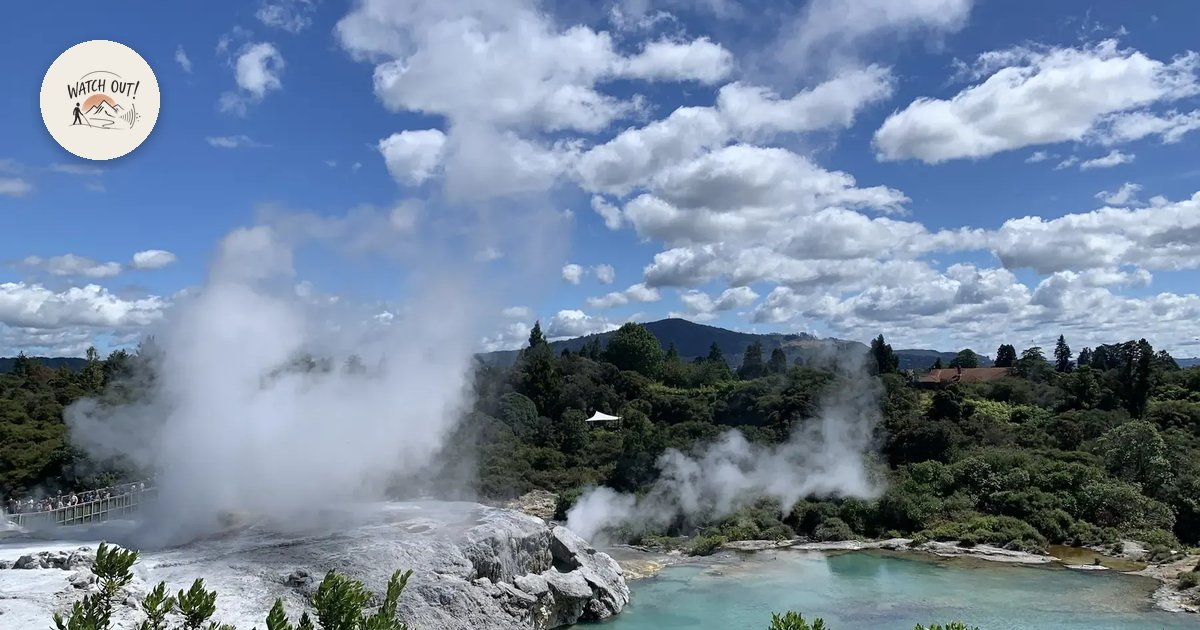
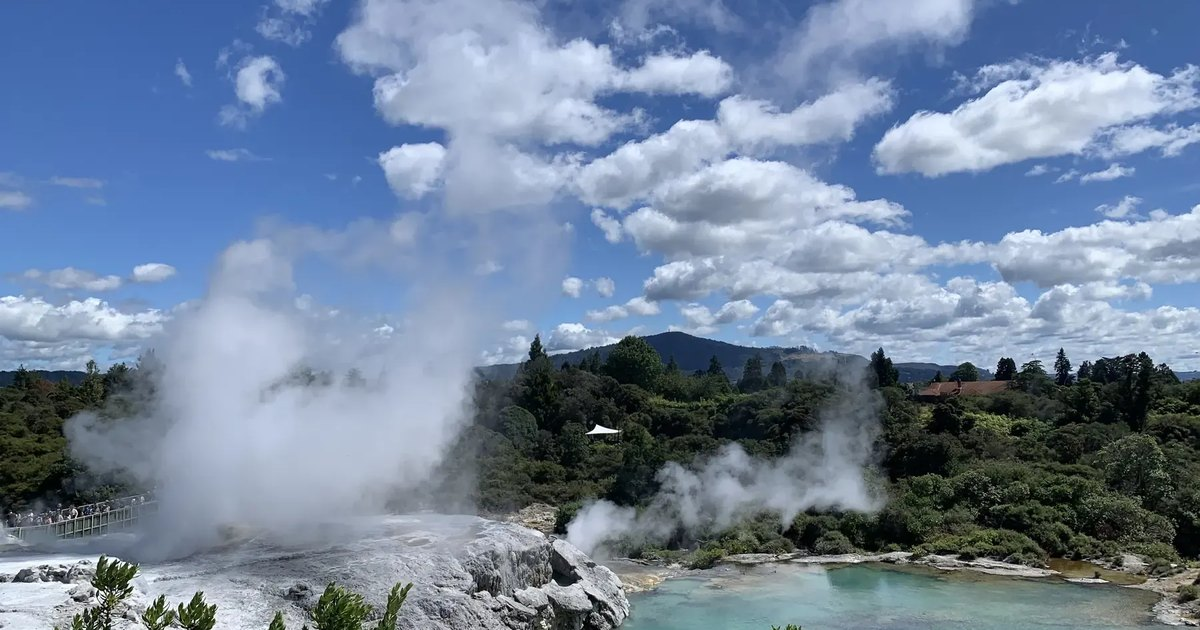
El Gran Viaje como próxima salida, SEO de las páginas e imagen social
- La salida del 1 al 15 de marzo de 2027 es El Gran Viaje, sin
  asociarla a +60: la etiqueta de la home pasa a "Próxima salida" y el
  formulario tiene la opción "El Gran Viaje · 1 – 15 de marzo de 2027",
  que se preselecciona desde esa sección (antes, "Viajes +60").
- Más allá de la vista y Viajes +60: fuera las fechas, duraciones y
  número de viajeros que presentaban esa salida como propia; en su lugar,
  un aviso que enlaza a /#proxima-salida (nuevo id de la sección).
- Título y descripción nuevos (ES/EN) de la home, Viajes privados,
  Viajes +60, Más allá de la vista, Las fundadoras y el Diario; og:title
  y og:description los heredan. index.html con los de la home.
- Datos estructurados: descripción nueva de la empresa; knowsAbout sin
  "Sensory travel experiences" y con "Bespoke travel in New Zealand" y
  "Responsible tourism (Tiaki Promise)".
- og-image.jpg: la misma foto propia del géiser, sin el logo antiguo.

Claude-Session: https://claude.ai/code/session_01JE6YKZzThTd12h43q7Mnka

diff --git a/WATCHOUT TOURS/index.html b/WATCHOUT TOURS/index.html
@@ -7,8 +7,8 @@
          por página (componente Seo, editable desde /admin/seo). Los de aquí
          son solo el valor por defecto antes de que cargue JavaScript o para
          rutas que no se prerenderizan (p. ej. /admin). -->
-    <title>Watchout Tours · Viajes sensoriales por Nueva Zelanda</title>
-    <meta name="description" content="Viajes guiados y accesibles por Nueva Zelanda para personas ciegas y con baja visión. Experiencias sensoriales, autonomía y aventura." />
+    <title>WatchOut Tours · Viajes de autor por Nueva Zelanda</title>
+    <meta name="description" content="Viajes privados y salidas en grupo reducido por Nueva Zelanda, diseñados y acompañados por sus fundadoras, dos barcelonesas que viven en el país. Hoteles de 4 y 5 estrellas y experiencias privadas." />
     <link rel="icon" type="image/svg+xml" href="/favicon.svg" />
     <link rel="icon" type="image/png" sizes="32x32" href="/favicon-32.png" />
     <link rel="apple-touch-icon" sizes="180x180" href="/favicon-180.png" />
@@ -25,7 +25,7 @@
         "url": "https://watchouttours.nz",
         "logo": "https://watchouttours.nz/favicon-512.png",
         "image": "https://watchouttours.nz/og-image.jpg",
-        "description": "Watchout Tours diseña y guía viajes sensoriales en grupos de máximo 6 personas por Nueva Zelanda, en español y en inglés, con dos guías durante todo el viaje. Viajes +60, para quien quiere viajar con calma y comodidad total, y viajes para personas ciegas y con baja visión.",
+        "description": "WatchOut Tours es una agencia de viajes de autor con sede en Nueva Zelanda, fundada por Sylvie y Mónica, dos barcelonesas que viven en el país. Diseña y acompaña viajes privados a medida, salidas en grupo reducido, viajes +60 y viajes para personas ciegas y con baja visión, en español y en inglés.",
         "email": "info@watchouttours.nz",
         "areaServed": "NZ",
         "knowsLanguage": ["es", "en"],
@@ -34,7 +34,8 @@
           "Blind travel",
           "Travel for the visually impaired",
           "Guided tours in New Zealand",
-          "Sensory travel experiences"
+          "Bespoke travel in New Zealand",
+          "Responsible tourism (Tiaki Promise)"
         ],
         "sameAs": ["https://www.instagram.com/watchouttours/"]
       }

diff --git a/WATCHOUT TOURS/src/pages/MasAllaDeLaVista.jsx b/WATCHOUT TOURS/src/pages/MasAllaDeLaVista.jsx
@@ -9,7 +9,7 @@ import { useSiteImage } from '../lib/siteImages'
 import { Seo } from '../components/Seo'
 import { Icono } from '../components/Icono'
 import { L } from '../i18n/routing'
-import { HeroFoto, SeparadorBaston, ResenasDestacadas, CtaFinal, AudioClips } from '../components/home/BloquesHome'
+import { HeroFoto, SeparadorBaston, ResenasDestacadas, CtaFinal, AudioClips, AvisoProximaSalida } from '../components/home/BloquesHome'
 import { SolicitudRuta } from '../components/SolicitudRuta'
 
 /* Iconos de "Lo que van a vivir": adrenalina, sentidos y cultura. */
@@ -157,17 +157,7 @@ export default function MasAllaDeLaVista() {
             ))}
           </div>
 
-          <div className="anuncio-grupo">
-            <span className="anuncio-grupo__badge">
-              <span className="anuncio-grupo__punto" aria-hidden="true"></span>
-              {t('masAlla.rutas.anuncioBadge')}
-            </span>
-            <p className="anuncio-grupo__fecha">{t('masAlla.rutas.anuncioFecha')}</p>
-            <p className="anuncio-grupo__texto">{t('masAlla.rutas.anuncioTexto')}</p>
-            <div className="cta-row" style={{ justifyContent: 'center' }}>
-              <L to="/contacto" className="btn btn-solid anuncio-grupo__cta">{t('masAlla.rutas.anuncioCta')}<span aria-hidden="true"> →</span></L>
-            </div>
-          </div>
+          <AvisoProximaSalida />
         </div>
       </section>
 

diff --git a/WATCHOUT TOURS/src/pages/Home.jsx b/WATCHOUT TOURS/src/pages/Home.jsx
@@ -78,6 +78,7 @@ const TIAKI = 'https://www.tiakinewzealand.com'
 
 /* Valores que recibe el equipo en el correo (siempre en español). */
 const VIAJES_EQUIPO = {
+  'gran-viaje': 'El Gran Viaje (1 – 15 de marzo de 2027)',
   'viajes-60': 'Viajes +60',
   'personas-ciegas': 'Viajes para personas ciegas y con baja visión',
   'privado': 'Viaje en privado',
@@ -349,13 +350,13 @@ function Colecciones() {
 function ProximaSalida({ setViaje }) {
   const { t } = useTranslation()
   return (
-    <section id="salida" className="hn-sec hn-par hn-blanca" aria-labelledby="hn-salida-titulo">
+    <section id="proxima-salida" className="hn-sec hn-par hn-blanca" aria-labelledby="hn-salida-titulo">
       <div className="hn-par__texto">
         <Etiqueta>{t('home.salida.etiqueta')}</Etiqueta>
         <h2 id="hn-salida-titulo" className="hn-h2"><Texto k="home.salida.titulo" /></h2>
         <p className="hn-body hn-body--primero">{t('home.salida.texto')}</p>
         <div className="hn-botones">
-          <a href="#itinerario" className="hn-btn" onClick={() => setViaje('viajes-60')}>{t('home.salida.itinerario')}</a>
+          <a href="#itinerario" className="hn-btn" onClick={() => setViaje('gran-viaje')}>{t('home.salida.itinerario')}</a>
           <BotonVideollamada className="hn-btn hn-btn--tinta">{t('home.salida.hablar')}</BotonVideollamada>
         </div>
       </div>

diff --git a/WATCHOUT TOURS/src/components/home/BloquesHome.jsx b/WATCHOUT TOURS/src/components/home/BloquesHome.jsx
@@ -156,6 +156,22 @@ export function ResenasDestacadas({ tono = 'night', modo = 'destacadas', variant
 }
 
 
+/* ── Aviso de la próxima salida en grupo ───────────────
+   Lo usan Más allá de la vista y Viajes +60: la salida del 1 al 15 de
+   marzo de 2027 es El Gran Viaje, no un viaje propio de esas colecciones,
+   así que aquí solo se menciona y se enlaza a su sección de la home. */
+export function AvisoProximaSalida() {
+  const { t } = useTranslation()
+  return (
+    <div className="anuncio-grupo">
+      <p className="anuncio-grupo__texto">{t('home.salida.aviso')}</p>
+      <div className="cta-row" style={{ justifyContent: 'center' }}>
+        <L to="/#proxima-salida" className="btn btn-solid anuncio-grupo__cta">{t('home.salida.avisoEnlace')}<span aria-hidden="true"> →</span></L>
+      </div>
+    </div>
+  )
+}
+
 /* ── Audios ──────────────────────────────────────────── */
 const AUDIOS = [
   { n: 1, id: 'parapente', src: audioParapente },

diff --git a/WATCHOUT TOURS/src/components/Seo.jsx b/WATCHOUT TOURS/src/components/Seo.jsx
@@ -29,8 +29,9 @@ export function Seo({ pageType, title, description, keywords, ogTitle, ogDescrip
   const resolvedOgTitle = pickLocalized(row, 'og_title', lang) || ogTitle || metaTitle
   const resolvedOgDesc  = pickLocalized(row, 'og_description', lang) || ogDescription || metaDesc
   // Imagen social: fila de /admin/seo > imagen propia de la página (prop) >
-  // imagen por defecto (public/og-image.jpg, 1200 × 630: la foto del hero
-  // con el logo), para que ninguna página se comparta nunca sin imagen.
+  // imagen por defecto (public/og-image.jpg, 1200 × 630: foto propia del
+  // géiser Pōhutu, sin logo ni texto), para que ninguna página se comparta
+  // nunca sin imagen.
   const { t } = useTranslation()
   const defaultImage = `${SITE_URL}/og-image.jpg`
   const ogImage     = row?.og_image_url || image || defaultImage

diff --git a/WATCHOUT TOURS/src/pages/SinPrisa.jsx b/WATCHOUT TOURS/src/pages/SinPrisa.jsx
@@ -18,7 +18,7 @@ import { Icono } from '../components/Icono'
 import { L } from '../i18n/routing'
 import { SolicitudRuta } from '../components/SolicitudRuta'
 import { BotonVideollamada } from '../components/Videollamada'
-import { HeroFoto, ResenasDestacadas, CtaFinal } from '../components/home/BloquesHome'
+import { HeroFoto, ResenasDestacadas, CtaFinal, AvisoProximaSalida } from '../components/home/BloquesHome'
 
 const ICONOS_INCLUYE = ['guias', 'hotel', 'comida', 'privado', 'transporte', 'asistencia']
 
@@ -119,6 +119,8 @@ export default function SinPrisa() {
               </li>
             ))}
           </ul>
+          {/* La próxima salida en grupo es El Gran Viaje: solo se enlaza */}
+          <AvisoProximaSalida />
         </div>
       </section>
 
